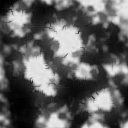
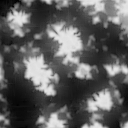
Add option of using a soft brush for height changes

diff --git a/erosion_simulator.cpp b/erosion_simulator.cpp
@@ -9,18 +9,20 @@
 
 #include "lodepng.h"
 
-#define RNG_MARGINS 10		// the number of pixels the droplet placement should be distanced from the edges of the image, at minimum
+#define RNG_MARGINS 1		// the number of pixels the droplet placement should be distanced from the edges of the image, at minimum
 
 #define ITERATIONS 100000
-#define EVAPORATION 0.005f
-#define INTENSITY 4
+#define EVAPORATION 0.0025f
+#define INTENSITY 5
 #define S_DR 0.01f
 #define S_DF 0.0005f
 #define S_TF 0.0001f
 #define S_TR 0.01f
 #define STARTING_WATER 1.0f
-#define FRICTION_COEFF 0.5f
+#define FRICTION_COEFF 0.1f
 #define GRAVITATIONAL_CONST 9.8f
+
+#define SOFT_BRUSH true
 
 char int_to_ascii(unsigned char &value) {
 	const char lightness_map[66] = "`^\",:;Il!i~+_-?][}{1)(|\\/tfjrxnuvczXYUJCLQ0OZmwqpdbkhao*#MW&8%B@$";
@@ -36,6 +38,51 @@ std::pair<float, float> get_tangent(float** heights, unsigned int width, unsigne
 	float top = point.first > 0 ? heights[point.first - 1][point.second] : heights[point.first][point.second];
 
 	return std::make_pair((bottom - top) / 2.0f, (right - left) / 2.0f);
+}
+
+
+void apply_modification(float** heights, unsigned int width, unsigned int height, std::pair<unsigned int, unsigned int> point, float value)
+{
+	unsigned int x = point.first;
+	unsigned int y = point.second;
+	float corner_wieght = 0.15f;
+	float ortho_weight = 0.3f;
+
+#if SOFT_BRUSH
+	if (x + 1 < height)
+	{
+		if (y > 0)
+		{
+			heights[x + 1][y - 1] += value * corner_wieght;
+		}
+		heights[x + 1][y] += value * ortho_weight;
+		if (y + 1 < width)
+		{
+			heights[x + 1][y + 1] += value * corner_wieght;
+		}
+	}
+	if (x > 0)
+	{
+		if (y > 0)
+		{
+			heights[x - 1][y - 1] += value * corner_wieght;
+		}
+		heights[x - 1][y] += value * ortho_weight;
+		if (y + 1 < width)
+		{
+			heights[x - 1][y + 1] += value * corner_wieght;
+		}
+	}
+	if (y > 0)
+	{
+		heights[x][y - 1] += value * ortho_weight;
+	}
+	if (y + 1 < width)
+	{
+		heights[x][y + 1] += value * corner_wieght;
+	}
+#endif
+	heights[x][y] += value;
 }
 
 float get_acceleration(float height_diff)
@@ -114,16 +161,15 @@ void erosion_step(float** heights, unsigned int width, unsigned int height, std:
 		float transport_capacity = t_r + t_f;
 		
 		carried_soil += detached_soil;
-		heights[point.first][point.second] -= detached_soil;
-
 		auto height_diff = heights[point.first][point.second] - heights[next_point.first][next_point.second];
+
+		apply_modification(heights, width, height, point, -detached_soil);
 		// it does not make sense for the next point to be at a higher position than our current point
 		if (height_diff < 0)
 		{
-			
 			auto deposited = std::min(-height_diff, carried_soil);
 			carried_soil -= deposited;
-			heights[point.first][point.second] += deposited;
+			apply_modification(heights, width, height, point, deposited);
 			velocity = 0.0f;
 			// we do not update the point location, it could be permanently stuck
 		}
@@ -133,7 +179,7 @@ void erosion_step(float** heights, unsigned int width, unsigned int height, std:
 
 			if (sedimented_soil > 0.0f)
 			{
-				heights[point.first][point.second] += sedimented_soil;
+				apply_modification(heights, width, height, point, sedimented_soil);
 				carried_soil -= sedimented_soil;
 			}
 			velocity += get_acceleration(height_diff);
@@ -141,7 +187,6 @@ void erosion_step(float** heights, unsigned int width, unsigned int height, std:
 			point = next_point;
 		}
 
-		// heights[point.first][point.second] = 255.0f; // TO MARK
 		water_amount -= EVAPORATION;
 	}
 }
